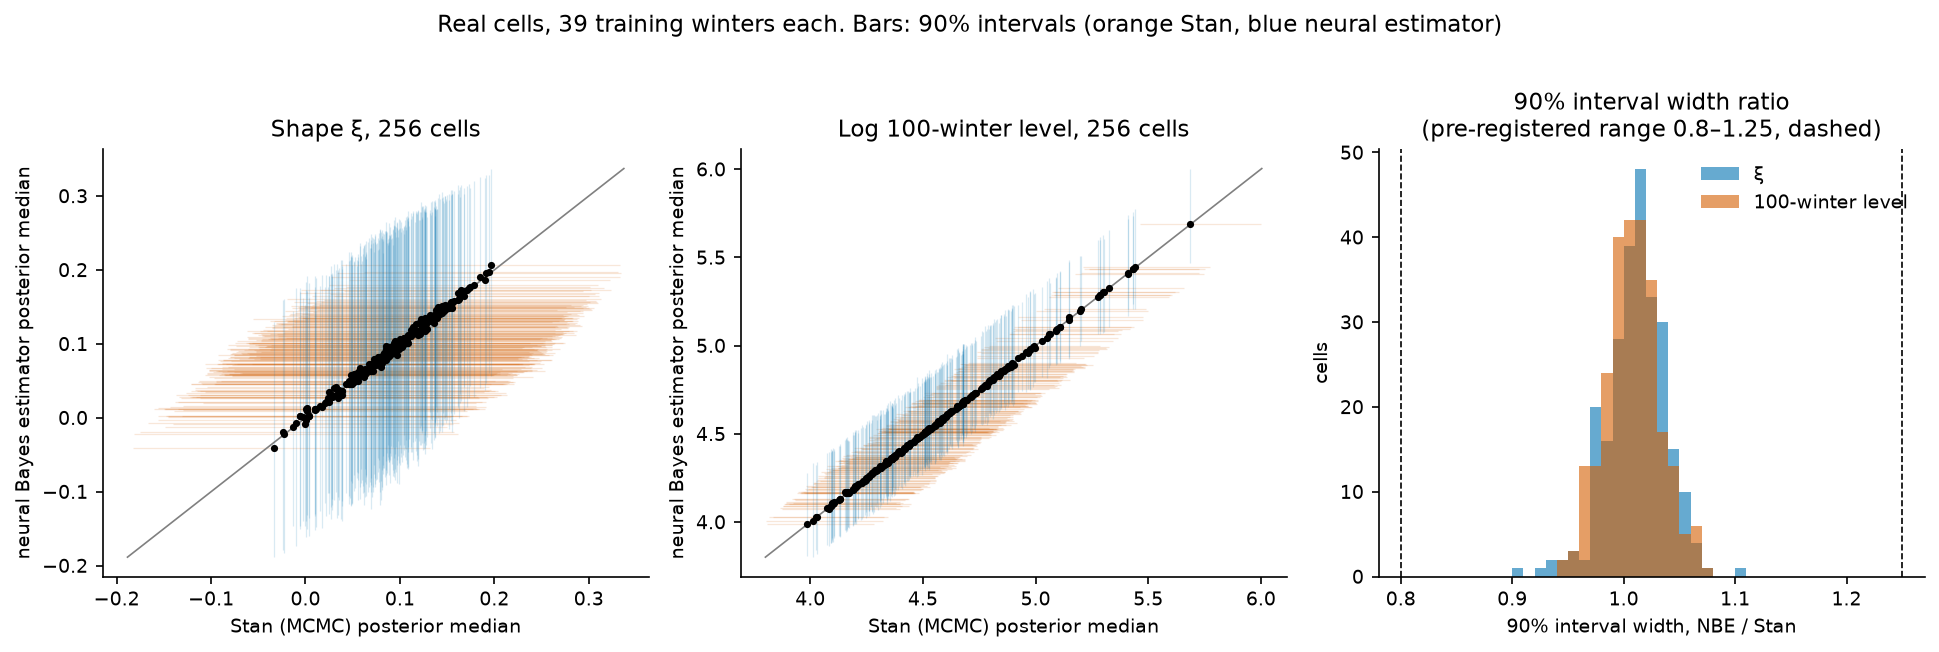
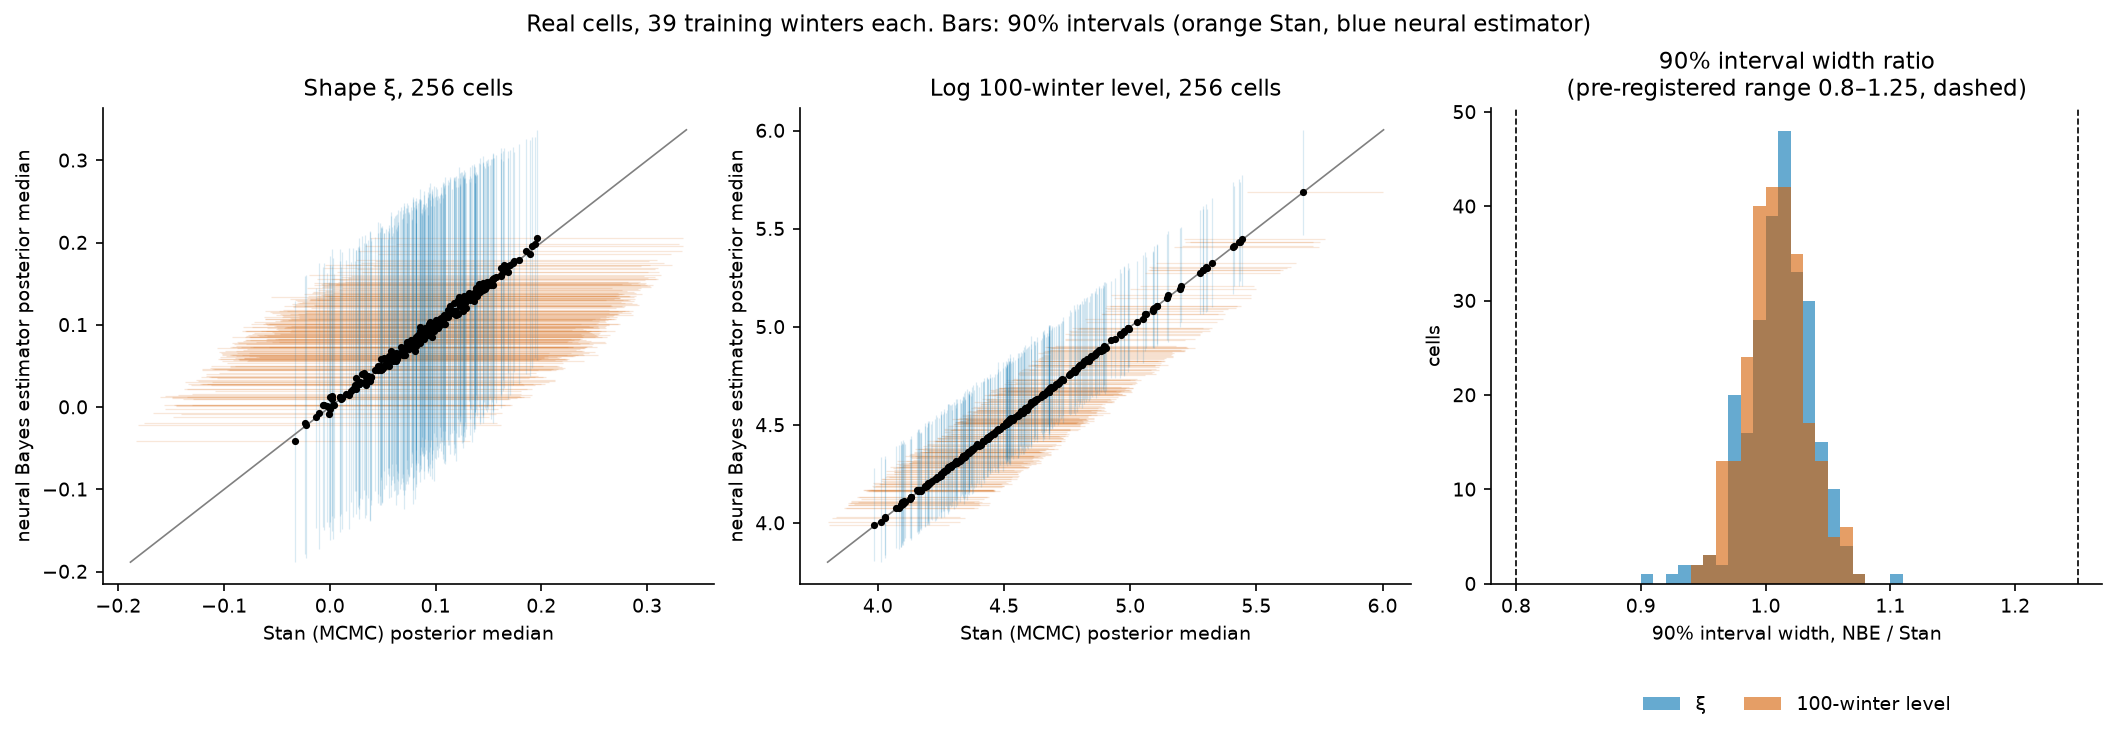
Figures: constrained layouts, legends outside the data, automatic check that no text overlaps

diff --git a/python/figures.py b/python/figures.py
@@ -17,8 +17,56 @@ C_NBE, C_STAN, C_MLE = "#0072B2", "#D55E00", "#7f7f7f"
 ev = json.load(open(RES / "evaluation.json"))
 comp = pd.read_csv(RES / "real_comparison.csv")
 
+
+def check_no_overlap(fig, name, pad=1.0):
+    """Fail if any two text elements overlap, if any text runs into another panel or colorbar,
+    or if a legend covers plotted data. Run on the final layout, before saving."""
+    fig.canvas.draw()
+    r = fig.canvas.get_renderer()
+    texts = [tx for tx in fig.texts if tx.get_visible() and tx.get_text().strip()]
+    owner = {}
+    for a in fig.axes:
+        items = [a.title, a._left_title, a._right_title, a.xaxis.label, a.yaxis.label]
+        # only tick labels that are actually drawn (inside the axis view limits)
+        x0, x1 = sorted(a.get_xlim()); y0, y1 = sorted(a.get_ylim())
+        eps = 1e-9 * max(1.0, abs(x1 - x0), abs(y1 - y0))
+        items += [tl for tl in a.get_xticklabels() if x0 - eps <= tl.get_position()[0] <= x1 + eps]
+        items += [tl for tl in a.get_yticklabels() if y0 - eps <= tl.get_position()[1] <= y1 + eps]
+        leg = a.get_legend()
+        if leg is not None:
+            items += leg.get_texts()
+        for tx in items:
+            if tx.get_visible() and tx.get_text().strip():
+                texts.append(tx); owner[id(tx)] = a
+    boxes = [tx.get_window_extent(r).expanded(1.0, 1.0).padded(pad) for tx in texts]
+    problems = []
+    for i in range(len(boxes)):
+        for j in range(i + 1, len(boxes)):
+            if boxes[i].overlaps(boxes[j]):
+                problems.append(f"text '{texts[i].get_text()}' overlaps '{texts[j].get_text()}'")
+        for a in fig.axes:
+            if owner.get(id(texts[i])) is a:
+                continue
+            if boxes[i].overlaps(a.get_window_extent(r)):
+                problems.append(f"text '{texts[i].get_text()}' runs into another panel")
+    for a in fig.axes:
+        leg = a.get_legend()
+        if leg is None:
+            continue
+        lb = leg.get_window_extent(r)
+        for art in list(a.patches) + list(a.lines) + list(a.collections) + list(a.images):
+            try:
+                if art.get_window_extent(r).overlaps(lb) and art.get_visible():
+                    problems.append(f"legend covers data in panel '{a.get_title()}'")
+                    break
+            except Exception:
+                pass
+    if problems:
+        raise SystemExit(f"{name}: " + "; ".join(sorted(set(problems))))
+    print(f"{name}: no overlaps")
+
 # 1. Real cells: NBE vs Stan -------------------------------------------------------------
-fig, ax = plt.subplots(1, 3, figsize=(13, 4.2))
+fig, ax = plt.subplots(1, 3, figsize=(14, 4.8), layout="constrained")
 for k, (t, lab) in enumerate([("xi", "shape ξ"), ("z100", "log 100-winter level")]):
     a = ax[k]
     a.errorbar(comp[f"{t}_stan_q50"], comp[f"{t}_nbe_q50"],
@@ -43,15 +91,15 @@ for x in (0.8, 1.25):
 a.set_xlim(0.78, 1.27)
 a.set_xlabel("90% interval width, NBE / Stan"); a.set_ylabel("cells")
 a.set_title("90% interval width ratio\n(pre-registered range 0.8–1.25, dashed)")
-a.legend(frameon=False)
-fig.suptitle("Real cells, 39 training winters each. Bars: 90% intervals (orange Stan, blue neural estimator)", y=1.02)
-fig.tight_layout()
+a.legend(frameon=False, loc="upper center", bbox_to_anchor=(0.5, -0.2), ncol=2)
+fig.suptitle("Real cells, 39 training winters each. Bars: 90% intervals (orange Stan, blue neural estimator)")
+check_no_overlap(fig, "nbe_vs_mcmc_real.png")
 fig.savefig(FIG / "nbe_vs_mcmc_real.png"); plt.close(fig)
 
 # 2. Simulation: calibration and accuracy ------------------------------------------------
 sim = ev["simulation"]["by_target"]
 targets = [("xi", "ξ"), ("z10", "log z₁₀"), ("z100", "log z₁₀₀"), ("z1000", "log z₁₀₀₀")]
-fig, ax = plt.subplots(1, 2, figsize=(10, 3.4))
+fig, ax = plt.subplots(1, 2, figsize=(11, 4.2), layout="constrained")
 x = np.arange(len(targets)); w = 0.26
 for j, (m, c, lab) in enumerate([("nbe_seed1", C_NBE, "neural Bayes estimator"),
                                   ("stan", C_STAN, "Stan (MCMC)"), ("mle", C_MLE, "MLE, Wald interval")]):
@@ -63,11 +111,12 @@ ax[0].axhspan(0.87, 0.93, color="grey", alpha=0.15, lw=0)
 ax[0].axhline(0.9, color="black", lw=0.8)
 ax[0].set_ylim(0.75, 0.95); ax[0].set_ylabel("coverage of 90% intervals")
 ax[0].set_title("Calibration on 1,000 simulated datasets\n(shaded: pre-registered range 0.87–0.93)")
-ax[1].set_ylabel("RMSE of point estimate (posterior median / MLE)")
+ax[1].set_ylabel("RMSE of point estimate\n(posterior median; MLE)")
 ax[1].set_title("Accuracy on the same datasets")
 for a in ax:
     a.set_xticks(x); a.set_xticklabels([l for _, l in targets])
-ax[1].legend(frameon=False, loc="upper left")
+fig.legend(*ax[1].get_legend_handles_labels(), frameon=False, loc="outside lower center", ncol=3)
+check_no_overlap(fig, "simulation_calibration.png")
 fig.savefig(FIG / "simulation_calibration.png"); plt.close(fig)
 
 # 3. Maps: NBE return levels, and the NBE - Stan difference in posterior SDs ----------------
@@ -75,7 +124,7 @@ cells = pd.read_csv(ROOT / "data" / "cells.csv").set_index("cell")
 nb = pd.read_csv(RES / "nbe_real_seed1.csv").set_index("id")
 grid = lambda v: v.reindex(cells.index).to_numpy().reshape(16, 16)  # rows = iy (south first)
 ext = [320, 400, 480, 560]
-fig, ax = plt.subplots(1, 3, figsize=(12, 3.6))
+fig, ax = plt.subplots(1, 3, figsize=(14, 4.4), layout="constrained")
 for a, v, title, cmap, kw in [
     (ax[0], nb["xi_q50"], "NBE posterior median of ξ\n(one cell at a time)", "PuOr_r", {"vmin": -0.15, "vmax": 0.35}),
     (ax[1], nb["z100_q50"], "NBE posterior median\n100-winter level (mm)", "viridis", {}),
@@ -83,8 +132,9 @@ for a, v, title, cmap, kw in [
      "|NBE − Stan| median of log z₁₀₀\n(in Stan posterior SDs)", "Greys", {"vmin": 0, "vmax": 0.25})]:
     im = a.imshow(grid(v), origin="lower", extent=ext, cmap=cmap, **kw)
     a.set_title(title); a.set_xlabel("Easting (km)"); a.set_ylabel("Northing (km)")
-    fig.colorbar(im, ax=a, shrink=0.85)
+    fig.colorbar(im, ax=a, shrink=0.85, pad=0.02)
 d = ev["heldout"]["desmond"]
 ax[1].plot(*cells.loc[d["cell"], ["x_km", "y_km"]], marker="x", color="red", ms=8)
+check_no_overlap(fig, "maps.png")
 fig.savefig(FIG / "maps.png"); plt.close(fig)
 print("figures written")
